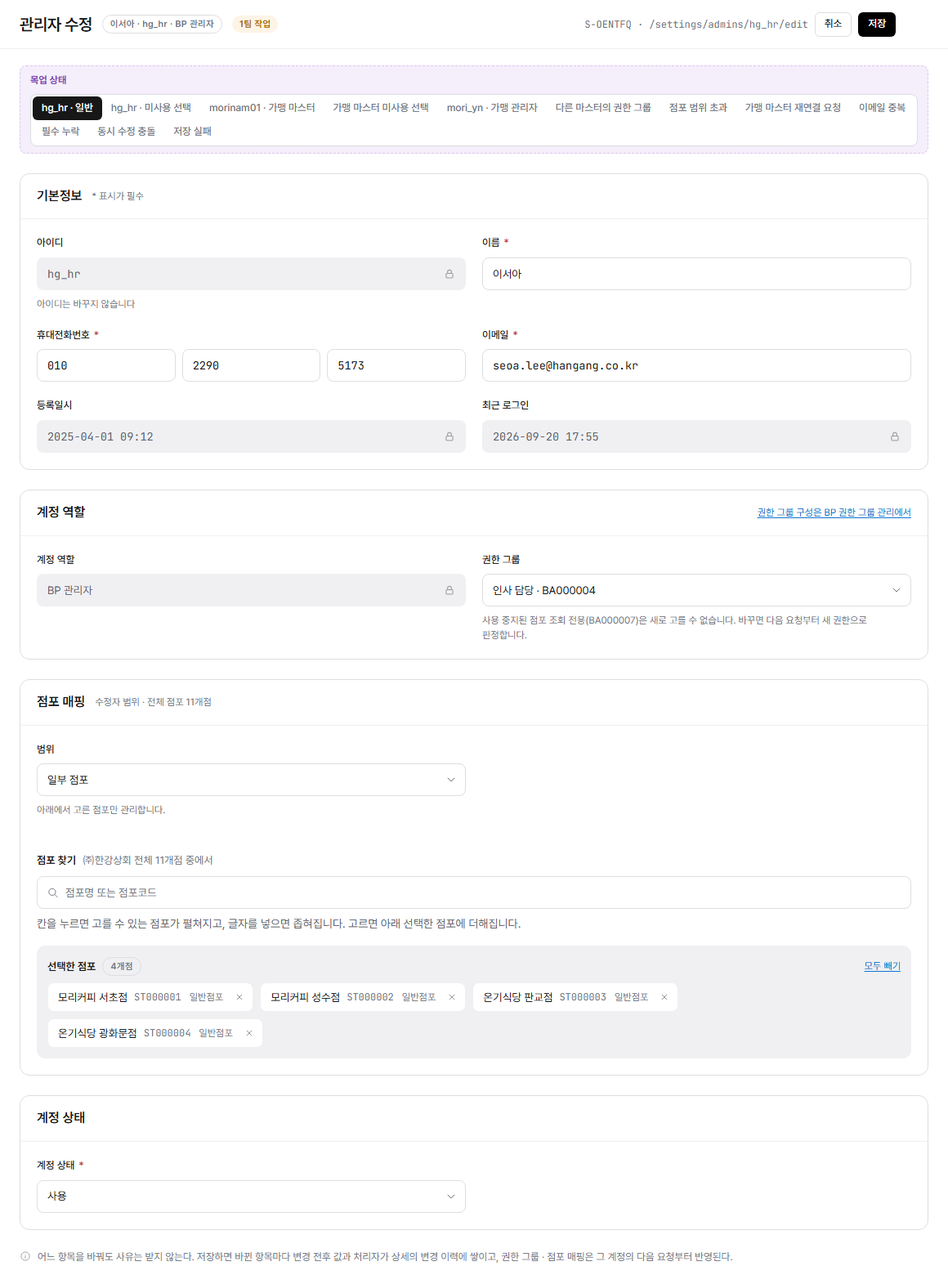
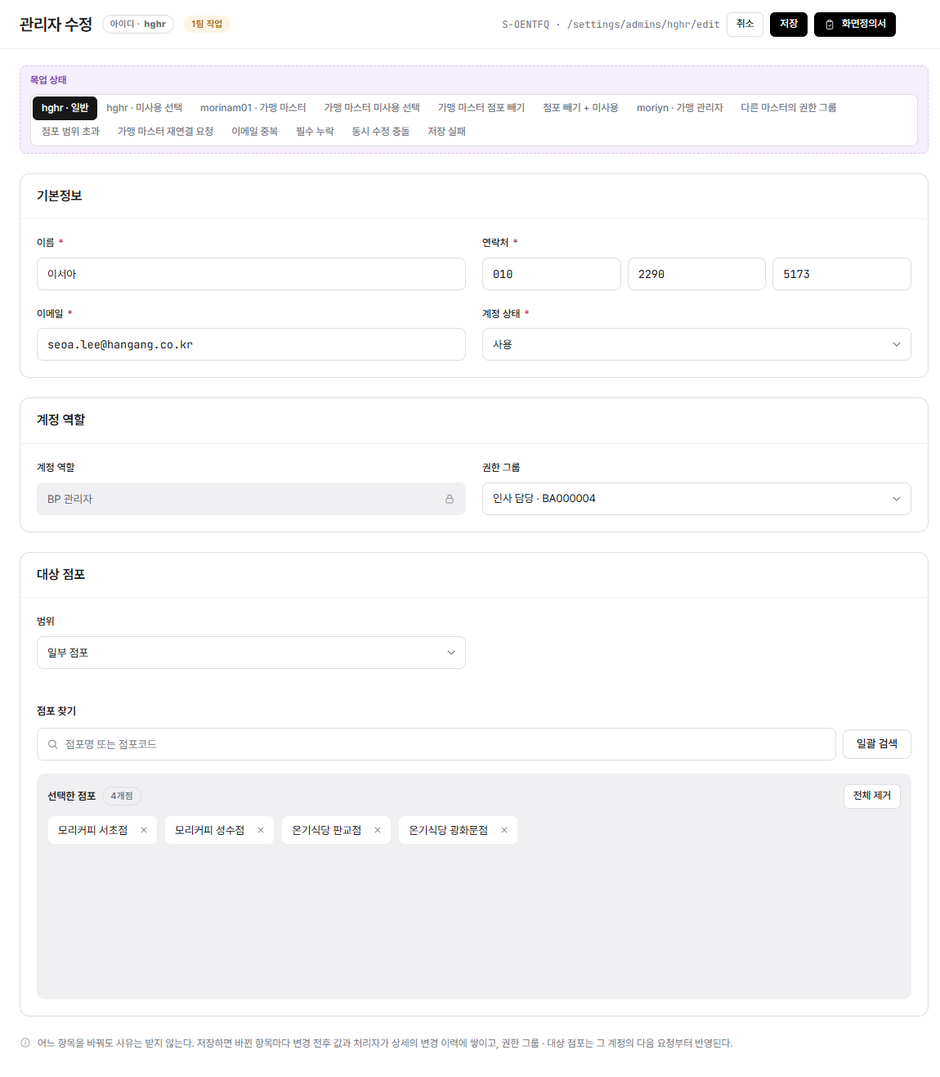
docs: BP 관리자 상세 · 수정 화면정의서 그림을 다시 찍음
오늘 고친 데모로 그림을 다시 찍고 번호를 실제 자리로 옮겼다.

diff --git a/docs/mockup/config/config-admins-edit.screen-def.html b/docs/mockup/config/config-admins-edit.screen-def.html
@@ -10,7 +10,7 @@
 <header>
   <div>
     <h1>BP 관리자 수정 — 화면정의서</h1>
-    <p>config/admins-edit.html?embed=1 렌더링(LNB·상단 GNB 제외, 화면 본문만, BP 마스터·hg_hr·일반 상태 기준) 위에 번호를 붙이고 우측에 설명을 매칭했다. manyfast S-OENTFQ 기준.</p>
+    <p>config/admins-edit.html?embed=1 렌더링(LNB·상단 GNB 제외, 화면 본문만, BP 마스터·hghr·일반 상태 기준) 위에 번호를 붙이고 우측에 설명을 매칭했다. manyfast S-OENTFQ 기준.</p>
     <table class="meta-table">
       <tr><td class="k">화면명</td><td class="v" id="metaName"></td><td class="k">화면경로</td><td class="v" id="metaPath"></td></tr>
     </table>
@@ -49,19 +49,19 @@
   "screenPath": "BP 환경설정 > BP 관리자 관리 > 수정",
   "purpose": "# 화면 목적 및 기능 — BP 관리자·가맹 마스터·가맹 관리자 계정의 기본정보·권한 그룹·점포 매핑·계정 상태를 수정하는 화면. 상세의 수정 버튼으로만 들어오고, 저장/취소/뒤로는 모두 그 계정의 상세로 이동한다",
   "items": [
-    { "x": 1019, "y": 29, "title": "취소", "desc": "정의: 저장하지 않고 이 계정의 상세로 돌아가는 버튼" },
-    { "x": 1073, "y": 29, "title": "저장", "desc": "정의: 바뀐 항목을 저장하고 상세로 이동\n어느 항목을 바꿔도 사유는 받지 않음, 바뀐 항목마다 변경 전후 값과 처리자가 상세의 변경 이력에 쌓임, 권한 그룹·점포 매핑은 그 계정의 다음 요청부터 반영\n이메일 중복이면 저장하지 않고 이메일 칸 아래 \"이미 사용 중인 이메일입니다. 다른 이메일을 입력해 주세요.\", 필수(이름·이메일) 누락이면 \"필수 항목이 비어 저장하지 않았습니다\"\n화면을 연 뒤 다른 사용자가 먼저 바꿨으면 \"다른 사용자가 이 계정을 먼저 바꿨습니다\"로 저장을 막고 최신 정보 다시 불러오기를 안내, 처리 중 오류면 \"저장하지 못했습니다\"(입력값은 화면에 유지)\n가맹 마스터를 미사용으로 저장하면 확인 팝업(연쇄 미사용 대상 안내)을 한 번 더 거침\n가맹 마스터에서 점포를 빼고 저장하면 확인 팝업에 매핑이 풀리는 가맹 관리자를 첫 계정 아이디와 '외 N명'으로 보임, 같은 저장에서 미사용으로도 바꾸면 한 팝업에 둘 다(2026-10-23) — 팝업 제목은 '가맹 마스터를 미사용으로 저장' · '가맹 마스터 점포를 빼고 저장' · '가맹 마스터 점포를 빼고 미사용으로 저장', 항목은 대상 · 빼는 점포 · 매핑 해제(\"뺀 점포의 매핑만 풀립니다.\") · 함께 미사용, 아래에 \"아이디는 첫 계정만 보입니다.\"와 \"가맹 관리자 변경이력에는 저장하는 사람이 처리자로 남고, 변경 후 값에 사유가 붙습니다.\", 확인 버튼은 미사용이 끼면 '미사용으로 저장' 아니면 '저장'(2026-10-29 사용자 결정, 코드대로)\n함께 바뀌는 가맹 관리자가 없으면 팝업 없이 저장" },
-    { "x": 307, "y": 335, "title": "아이디", "desc": "정의: 입력칸이 아니라 제목 옆 꼬리표 '아이디 · xxx'로만 보임, 바꾸지 않음(2026-10-29 사용자 결정, 코드대로)" },
-    { "x": 851, "y": 335, "title": "이름", "desc": "정의: 필수 입력, 비우면 \"이름을 입력해 주세요.\"" },
-    { "x": 130, "y": 447, "title": "연락처", "desc": "정의: 필수 입력, 세 칸으로 나눠 입력" },
-    { "x": 851, "y": 447, "title": "이메일", "desc": "정의: 필수 입력\n다른 계정과 중복이면 \"이미 사용 중인 이메일입니다. 다른 이메일을 입력해 주세요.\", 비우면 \"이메일을 입력해 주세요.\"" },
-    { "x": 307, "y": 721, "title": "계정 역할", "desc": "정의: 읽기 전용 — 이 화면에서 역할은 바꾸지 않음" },
-    { "x": 851, "y": 721, "title": "권한 그룹", "desc": "정의: 이 계정 역할에 맞는 권한 그룹을 드롭다운에 표시(권한 그룹에는 사용 상태가 없음)\n바꾸면 다음 요청부터 새 권한으로 판정\n가맹 마스터는 플랫폼이 정한 고정 권한만 사용, 본인 계정을 여는 경우 이 항목은 읽기 전용이고 \"본인 권한 그룹은 다른 사용자가 바꿔야 합니다\"\n가맹 관리자 계정을 연결 가맹 마스터가 고칠 때는 그 가맹 마스터가 만든 그룹만 나오고(관리계정ID 일치 — 칸 아래 도움말은 두지 않음, 2026-10-29 사용자 결정, 코드대로), 범위 밖 그룹을 강제로 넣으면 \"선택할 수 없는 권한입니다.\"" },
-    { "x": 307, "y": 953, "title": "범위", "desc": "정의: 전체 점포 · 일부 점포 선택(전체 점포를 맡은 수정자만 이 선택지가 있고, 일부 점포만 맡은 수정자는 '일부 점포'로 고정되어 선택이 비활성)\n아래 점포 찾기·선택 영역의 대상 풀이 이 선택에 따라 달라짐" },
-    { "x": 580, "y": 1091, "title": "점포 찾기", "desc": "정의: 점포명 또는 점포코드로 검색해 관리할 점포를 더하는 입력란\n대상 풀은 수정하는 사람 본인의 관리 점포 범위로 줄어든다(예: 일부 점포만 맡은 hg_hr가 고치면 본인 직영 4개점 중에서만)\n가맹 관리자 계정을 가맹 마스터가 고칠 때는 그 가맹 마스터의 점포 안에서만 고름\n새로 매핑할 수 있는 점포는 미운영·운영뿐 — 폐점 점포와(가맹 마스터면) 다른 가맹 마스터가 맡은 점포는 후보에 나오지 않음, 이미 매핑된 폐점 점포는 선택한 점포에 그대로 둠(2026-10-23)" },
-    { "x": 580, "y": 1200, "title": "선택한 점포", "desc": "정의: 고른 점포를 칩으로 쌓아 보여주고 × 로 하나씩 빼거나 '전체 제거'로 모두 뺀다\n수정자 범위 밖에 이미 매핑된 점포가 있으면(예: 일부 점포 담당자가 열었는데 범위 밖 매핑이 남아있는 경우) 이 화면에서 빼거나 바꾸지 못하는 '범위 밖 매핑' 표로 별도 표시하고 그대로 유지\n가맹 마스터 계정에서 점포를 빼면 연결된 가맹 관리자의 그 점포 매핑도 같은 저장에서 풀림 — 빼는 순간 뜨는 경고 띠는 없고 저장할 때 확인 팝업으로만 알림(2026-10-29 사용자 결정, 코드대로), 점포가 하나도 남지 않은 가맹 관리자도 사용 상태 그대로이고 '관리 점포 필수'는 그 계정을 다음에 수정할 때 봄(2026-10-23)" },
-    { "x": 307, "y": 1463, "title": "계정 상태", "desc": "정의: 사용 · 미사용 선택, 필수\n사유는 받지 않고 선행 조건도 보지 않음 — 미사용으로 저장하면 곧바로 로그인·ERP 접근이 막히고 열려 있는 세션은 닫지 않음(계정·점포 매핑·이력은 보존, 다시 사용으로 돌리면 기존 비밀번호로 재로그인)\n가맹 마스터를 미사용으로 저장하면 연결된 가맹 관리자 전부가 미사용, 그 가맹 마스터가 만든 권한 그룹은 그대로 남음(권한 그룹에는 사용 상태가 없음) — 미사용을 고르면 이 칸 아래 안내 띠 \"가맹 마스터를 미사용으로 저장하면 연결된 가맹 관리자 계정도 함께 멈춥니다.\" · \"가맹 관리자 moriyn 외 1명 → 미사용\"(코드대로, 2026-10-29), 저장 전 확인 팝업으로 다시 안내, 가맹 관리자 변경 이력은 처리자가 저장한 사람이고 변경 후 값이 '미사용 (가맹 마스터 미사용)'(2026-10-23)\n본인 계정을 여는 경우(가맹 마스터 본인 포함, 2026-10-23) 이 항목은 읽기 전용(\"본인 계정의 상태는 다른 사용자가 바꿔야 합니다\")\n가맹 관리자 계정은 연결된 가맹 마스터만 상태를 바꿀 수 있음" },
-    { "x": 52, "y": 1536, "title": "하단 안내", "desc": "정의: 어느 항목을 바꿔도 사유는 받지 않으며, 저장하면 바뀐 항목마다 변경 전후 값과 처리자가 상세의 변경 이력에 쌓이고 권한 그룹·점포 매핑은 그 계정의 다음 요청부터 반영된다는 안내" }
+    { "x": 911, "y": 30, "title": "취소", "desc": "정의: 저장하지 않고 이 계정의 상세로 돌아가는 버튼" },
+    { "x": 964, "y": 30, "title": "저장", "desc": "정의: 바뀐 항목을 저장하고 상세로 이동\n어느 항목을 바꿔도 사유는 받지 않음, 바뀐 항목마다 변경 전후 값과 처리자가 상세의 변경 이력에 쌓임, 권한 그룹·점포 매핑은 그 계정의 다음 요청부터 반영\n이메일 중복이면 저장하지 않고 이메일 칸 아래 \"이미 사용 중인 이메일입니다. 다른 이메일을 입력해 주세요.\", 필수(이름·이메일) 누락이면 \"필수 항목이 비어 저장하지 않았습니다\"\n화면을 연 뒤 다른 사용자가 먼저 바꿨으면 \"다른 사용자가 이 계정을 먼저 바꿨습니다\"로 저장을 막고 최신 정보 다시 불러오기를 안내, 처리 중 오류면 \"저장하지 못했습니다\"(입력값은 화면에 유지)\n가맹 마스터를 미사용으로 저장하면 확인 팝업(연쇄 미사용 대상 안내)을 한 번 더 거침\n가맹 마스터에서 점포를 빼고 저장하면 확인 팝업에 매핑이 풀리는 가맹 관리자를 첫 계정 아이디와 '외 N명'으로 보임, 같은 저장에서 미사용으로도 바꾸면 한 팝업에 둘 다(2026-10-23) — 팝업 제목은 '가맹 마스터를 미사용으로 저장' · '가맹 마스터 점포를 빼고 저장' · '가맹 마스터 점포를 빼고 미사용으로 저장', 항목은 대상 · 빼는 점포 · 매핑 해제(\"뺀 점포의 매핑만 풀립니다.\") · 함께 미사용, 아래에 \"아이디는 첫 계정만 보입니다.\"와 \"가맹 관리자 변경이력에는 저장하는 사람이 처리자로 남고, 변경 후 값에 사유가 붙습니다.\", 확인 버튼은 미사용이 끼면 '미사용으로 저장' 아니면 '저장'(2026-10-29 사용자 결정, 코드대로)\n함께 바뀌는 가맹 관리자가 없으면 팝업 없이 저장" },
+    { "x": 168, "y": 29, "title": "아이디", "desc": "정의: 입력칸이 아니라 제목 옆 꼬리표 '아이디 · xxx'로만 보임, 바꾸지 않음(2026-10-29 사용자 결정, 코드대로)" },
+    { "x": 307, "y": 306, "title": "이름", "desc": "정의: 필수 입력, 비우면 \"이름을 입력해 주세요.\"" },
+    { "x": 851, "y": 306, "title": "연락처", "desc": "정의: 필수 입력, 세 칸으로 나눠 입력" },
+    { "x": 307, "y": 392, "title": "이메일", "desc": "정의: 필수 입력\n다른 계정과 중복이면 \"이미 사용 중인 이메일입니다. 다른 이메일을 입력해 주세요.\", 비우면 \"이메일을 입력해 주세요.\"" },
+    { "x": 307, "y": 581, "title": "계정 역할", "desc": "정의: 읽기 전용 — 이 화면에서 역할은 바꾸지 않음" },
+    { "x": 851, "y": 581, "title": "권한 그룹", "desc": "정의: 이 계정 역할에 맞는 권한 그룹을 드롭다운에 표시(권한 그룹에는 사용 상태가 없음)\n바꾸면 다음 요청부터 새 권한으로 판정\n가맹 마스터는 플랫폼이 정한 고정 권한만 사용, 본인 계정을 여는 경우 이 항목은 읽기 전용이고 \"본인 권한 그룹은 다른 사용자가 바꿔야 합니다\"\n가맹 관리자 계정을 연결 가맹 마스터가 고칠 때는 그 가맹 마스터가 만든 그룹만 나오고(관리계정ID 일치 — 칸 아래 도움말은 두지 않음, 2026-10-29 사용자 결정, 코드대로), 범위 밖 그룹을 강제로 넣으면 \"선택할 수 없는 권한입니다.\"" },
+    { "x": 307, "y": 769, "title": "범위", "desc": "정의: 전체 점포 · 일부 점포 선택(전체 점포를 맡은 수정자만 이 선택지가 있고, 일부 점포만 맡은 수정자는 '일부 점포'로 고정되어 선택이 비활성)\n아래 점포 찾기·선택 영역의 대상 풀이 이 선택에 따라 달라짐" },
+    { "x": 140, "y": 879, "title": "점포 찾기", "desc": "정의: 점포명 또는 점포코드로 검색해 관리할 점포를 더하는 입력란\n대상 풀은 수정하는 사람 본인의 관리 점포 범위로 줄어든다(예: 일부 점포만 맡은 hghr가 고치면 본인 직영 4개점 중에서만)\n가맹 관리자 계정을 가맹 마스터가 고칠 때는 그 가맹 마스터의 점포 안에서만 고름\n새로 매핑할 수 있는 점포는 미운영·운영뿐 — 폐점 점포와(가맹 마스터면) 다른 가맹 마스터가 맡은 점포는 후보에 나오지 않음, 이미 매핑된 폐점 점포는 선택한 점포에 그대로 둠(2026-10-23)" },
+    { "x": 190, "y": 973, "title": "선택한 점포", "desc": "정의: 고른 점포를 칩으로 쌓아 보여주고 × 로 하나씩 빼거나 '전체 제거'로 모두 뺀다\n수정자 범위 밖에 이미 매핑된 점포가 있으면(예: 일부 점포 담당자가 열었는데 범위 밖 매핑이 남아있는 경우) 이 화면에서 빼거나 바꾸지 못하는 '범위 밖 매핑' 표로 별도 표시하고 그대로 유지\n가맹 마스터 계정에서 점포를 빼면 연결된 가맹 관리자의 그 점포 매핑도 같은 저장에서 풀림 — 빼는 순간 뜨는 경고 띠는 없고 저장할 때 확인 팝업으로만 알림(2026-10-29 사용자 결정, 코드대로), 점포가 하나도 남지 않은 가맹 관리자도 사용 상태 그대로이고 '관리 점포 필수'는 그 계정을 다음에 수정할 때 봄(2026-10-23)" },
+    { "x": 851, "y": 392, "title": "계정 상태", "desc": "정의: 사용 · 미사용 선택, 필수\n사유는 받지 않고 선행 조건도 보지 않음 — 미사용으로 저장하면 곧바로 로그인·ERP 접근이 막히고 열려 있는 세션은 닫지 않음(계정·점포 매핑·이력은 보존, 다시 사용으로 돌리면 기존 비밀번호로 재로그인)\n가맹 마스터를 미사용으로 저장하면 연결된 가맹 관리자 전부가 미사용, 그 가맹 마스터가 만든 권한 그룹은 그대로 남음(권한 그룹에는 사용 상태가 없음) — 미사용을 고르면 이 칸 아래 안내 띠 \"가맹 마스터를 미사용으로 저장하면 연결된 가맹 관리자 계정도 함께 멈춥니다.\" · \"가맹 관리자 moriyn 외 1명 → 미사용\"(코드대로, 2026-10-29), 저장 전 확인 팝업으로 다시 안내, 가맹 관리자 변경 이력은 처리자가 저장한 사람이고 변경 후 값이 '미사용 (가맹 마스터 미사용)'(2026-10-23)\n본인 계정을 여는 경우(가맹 마스터 본인 포함, 2026-10-23) 이 항목은 읽기 전용(\"본인 계정의 상태는 다른 사용자가 바꿔야 합니다\")\n가맹 관리자 계정은 연결된 가맹 마스터만 상태를 바꿀 수 있음" },
+    { "x": 40, "y": 1275, "title": "하단 안내", "desc": "정의: 어느 항목을 바꿔도 사유는 받지 않으며, 저장하면 바뀐 항목마다 변경 전후 값과 처리자가 상세의 변경 이력에 쌓이고 권한 그룹·점포 매핑은 그 계정의 다음 요청부터 반영된다는 안내" }
   ]
 }
 </script>

diff --git a/docs/mockup/config/config-admins-detail.screen-def.html b/docs/mockup/config/config-admins-detail.screen-def.html
@@ -10,7 +10,7 @@
 <header>
   <div>
     <h1>BP 관리자 상세 — 화면정의서</h1>
-    <p>config/admins-detail.html?embed=1 렌더링(LNB·상단 GNB 제외, 화면 본문만, BP 마스터·hg_hr 계정 기준) 위에 번호를 붙이고 우측에 설명을 매칭했다. manyfast S-EBIPGZ · 비밀번호 초기화 S-TKSRJX 기준.</p>
+    <p>config/admins-detail.html?embed=1 렌더링(LNB·상단 GNB 제외, 화면 본문만, BP 마스터·hghr 계정 기준) 위에 번호를 붙이고 우측에 설명을 매칭했다. manyfast S-EBIPGZ · 비밀번호 초기화 S-TKSRJX 기준.</p>
     <table class="meta-table">
       <tr><td class="k">화면명</td><td class="v" id="metaName"></td><td class="k">화면경로</td><td class="v" id="metaPath"></td></tr>
     </table>
@@ -49,19 +49,19 @@
   "screenPath": "BP 환경설정 > BP 관리자 관리 > 상세",
   "purpose": "# 화면 목적 및 기능 — BP 관리자·가맹 마스터·가맹 관리자 계정의 이름·역할·권한명·계정 상태와 기본정보·대상점포를 읽기 전용으로 모아 보여주고, 수정·비밀번호 초기화·변경이력 팝업으로 이어지는 상세 조회 화면",
   "items": [
-    { "x": 108, "y": 29, "title": "이름 · 역할 | 권한명 | 상태", "desc": "정의: 계정 이름 아랫줄에 「역할 값 | 권한명 값 | 상태 배지」를 한 줄로 표시 — 역할은 BP 관리자 · 가맹 마스터 · 가맹 관리자, 상태는 라벨 없이 사용 · 미사용 배지만\n권한명은 이름만 보이고 링크 · 보충 설명은 없음, 미사용으로 바뀐 일시도 보이지 않음\n미사용 계정은 안내 띠 없이 미사용 배지만(2026-10-29 사용자 결정, 코드대로)" },
-    { "x": 1073, "y": 29, "title": "수정", "desc": "정의: 이 계정의 수정 화면으로 이동\n메뉴 수정 권한이 있고 관리 범위 안인 계정에만 보임(BP 관리자·가맹 마스터=BP 마스터/BP 관리자/플랫폼 사용자가, 가맹 관리자=연결된 가맹 마스터만)\n가맹 마스터 본인 계정은 수정으로 가되 기본정보(이름·연락처·이메일)만 고침, 가맹 관리자 본인 계정은 수정 버튼 없음(2026-10-23)" },
-    { "x": 1140, "y": 29, "title": "변경이력", "desc": "정의: 변경이력 팝업을 연다 — 상세를 볼 수 있으면 늘 보임, 열 때마다 첫 쪽을 새로 받음\n최신순 한 쪽 10건, 칸은 변경일시 · 변경자 · 항목 · 변경 전 · 변경 후, 변경자는 아이디가 아니라 이름(없으면 「시스템」), 비어 있는 값은 빈 칸, 사유는 받지 않음\n비밀번호 줄: 관리자가 초기화하면 항목 「비밀번호」 · 변경 전 빈칸 · 변경 후 「초기화」, 본인이 초기화 비밀번호로 로그인해 바꾸면 「비밀번호」 · 「강제 변경」 — 메일 발송 결과와 비밀번호 값은 남기지 않음(2026-10-29 사용자 결정, 코드대로)\n가맹 마스터 미사용·점포 빼기로 연쇄해 바뀐 가맹 관리자 행은 처리자가 그 가맹 마스터를 저장한 사람(시스템 아님)이고 변경 후 값에 사유를 붙임 — '미사용 (가맹 마스터 미사용)', '… (가맹 마스터 점포 제외)'(2026-10-23)" },
-    { "x": 188, "y": 298, "title": "아이디", "desc": "정의: 읽기 전용" },
-    { "x": 188, "y": 326, "title": "이름", "desc": "정의: 읽기 전용" },
-    { "x": 219, "y": 354, "title": "연락처", "desc": "정의: 읽기 전용" },
-    { "x": 256, "y": 383, "title": "이메일", "desc": "정의: 읽기 전용" },
-    { "x": 220, "y": 411, "title": "비밀번호 · 초기화", "desc": "정의: 초기화할 수 있는 계정에만 [초기화] 버튼, 그 밖은 「-」 — 미사용 계정(api 는 막지 않지만 화면에서 숨김) · 본인 계정(흐린 버튼 · 툴팁 없이 「-」, 비밀번호는 내 정보에서 바꿈) · 초기화 권한이 없는 계정\n초기화 권한: 메뉴 수정 권한 + 관리 범위 안, 가맹 관리자 계정은 연결된 가맹 마스터만\n누르면 확인창 「비밀번호를 초기화하시겠습니까?」 — 대상 아이디 · 이름 · 이메일과 안내 「비밀번호 초기화 시 새로운 비밀번호가 등록된 이메일로 발송됩니다. 새 비밀번호는 1시간 동안 유효하며, 로그인 시 변경해야 합니다. 기존 비밀번호는 즉시 사용할 수 없게 됩니다.」, [취소] [초기화]\n성공하면 토스트 「초기화되었습니다.」와 상세 위 띠 「초기화 비밀번호를 발송했습니다. 비밀번호는 1시간 동안 유효합니다.」, 메일을 못 보내면 빨간 띠 「초기화 비밀번호가 발송되지 않았습니다. 비밀번호 [초기화] 버튼을 눌러 다시 발송해 주세요.」" },
-    { "x": 231, "y": 439, "title": "최근 로그인", "desc": "정의: 읽기 전용, 로그인 기록이 없으면 \"-\"" },
-    { "x": 227, "y": 467, "title": "등록", "desc": "정의: 등록 일시 · 처리자명, 읽기 전용" },
-    { "x": 227, "y": 495, "title": "최종수정", "desc": "정의: 최종 수정 일시 · 처리자명, 읽기 전용 — 수정한 적이 없으면 「-」" },
-    { "x": 260, "y": 523, "title": "연결 가맹마스터", "desc": "정의: 가맹 관리자 계정만 기본정보 표 맨 끝에 보이는 읽기 전용 줄, 등록 때 정해진 연결 가맹 마스터의 「아이디 · 이름」 · 누가 열든 보임, 다른 역할 계정에는 줄이 없음(이 스크린샷의 BP 관리자 계정에는 없음, 2026-10-23)" },
-    { "x": 719, "y": 397, "title": "대상점포", "desc": "정의: 이 계정이 맡은 점포 목록(점포명 · 점포코드 · 점포 상태)과 제목 옆 「일부 점포 · N개점」\n전체 점포를 맡은 계정은 제목 옆 「전체 점포 · 지금 N개점」과 표 대신 안내 두 줄 「소속BP의 모든 점포를 관리합니다. / 신규 등록된 점포도 관리 대상에 자동으로 포함됩니다.」" }
+    { "x": 90, "y": 225, "title": "이름 · 역할 | 권한명 | 상태", "desc": "정의: 계정 이름 아랫줄에 「역할 값 | 권한명 값 | 상태 배지」를 한 줄로 표시 — 역할은 BP 관리자 · 가맹 마스터 · 가맹 관리자, 상태는 라벨 없이 사용 · 미사용 배지만\n권한명은 이름만 보이고 링크 · 보충 설명은 없음, 미사용으로 바뀐 일시도 보이지 않음\n미사용 계정은 안내 띠 없이 미사용 배지만(2026-10-29 사용자 결정, 코드대로)" },
+    { "x": 890, "y": 30, "title": "수정", "desc": "정의: 이 계정의 수정 화면으로 이동\n메뉴 수정 권한이 있고 관리 범위 안인 계정에만 보임(BP 관리자·가맹 마스터=BP 마스터/BP 관리자/플랫폼 사용자가, 가맹 관리자=연결된 가맹 마스터만)\n가맹 마스터 본인 계정은 수정으로 가되 기본정보(이름·연락처·이메일)만 고침, 가맹 관리자 본인 계정은 수정 버튼 없음(2026-10-23)" },
+    { "x": 954, "y": 30, "title": "변경이력", "desc": "정의: 변경이력 팝업을 연다 — 상세를 볼 수 있으면 늘 보임, 열 때마다 첫 쪽을 새로 받음\n최신순 한 쪽 10건, 칸은 변경일시 · 변경자 · 항목 · 변경 전 · 변경 후, 변경자는 아이디가 아니라 이름(없으면 「시스템」), 비어 있는 값은 빈 칸, 사유는 받지 않음\n비밀번호 줄: 관리자가 초기화하면 항목 「비밀번호」 · 변경 전 빈칸 · 변경 후 「초기화」, 본인이 초기화 비밀번호로 로그인해 바꾸면 「비밀번호」 · 「강제 변경」 — 메일 발송 결과와 비밀번호 값은 남기지 않음(2026-10-29 사용자 결정, 코드대로)\n가맹 마스터 미사용·점포 빼기로 연쇄해 바뀐 가맹 관리자 행은 처리자가 그 가맹 마스터를 저장한 사람(시스템 아님)이고 변경 후 값에 사유를 붙임 — '미사용 (가맹 마스터 미사용)', '… (가맹 마스터 점포 제외)'(2026-10-23)" },
+    { "x": 145, "y": 376, "title": "아이디", "desc": "정의: 읽기 전용" },
+    { "x": 145, "y": 405, "title": "이름", "desc": "정의: 읽기 전용" },
+    { "x": 145, "y": 433, "title": "연락처", "desc": "정의: 읽기 전용" },
+    { "x": 145, "y": 462, "title": "이메일", "desc": "정의: 읽기 전용" },
+    { "x": 145, "y": 495, "title": "비밀번호 · 초기화", "desc": "정의: 초기화할 수 있는 계정에만 [초기화] 버튼, 그 밖은 「-」 — 미사용 계정(api 는 막지 않지만 화면에서 숨김) · 본인 계정(흐린 버튼 · 툴팁 없이 「-」, 비밀번호는 내 정보에서 바꿈) · 초기화 권한이 없는 계정\n초기화 권한: 메뉴 수정 권한 + 관리 범위 안, 가맹 관리자 계정은 연결된 가맹 마스터만\n누르면 확인창 「비밀번호를 초기화하시겠습니까?」 — 대상 아이디 · 이름 · 이메일과 안내 「비밀번호 초기화 시 새로운 비밀번호가 등록된 이메일로 발송됩니다. 새 비밀번호는 1시간 동안 유효하며, 로그인 시 변경해야 합니다. 기존 비밀번호는 즉시 사용할 수 없게 됩니다.」, [취소] [초기화]\n성공하면 토스트 「초기화되었습니다.」와 상세 위 띠 「초기화 비밀번호를 발송했습니다. 비밀번호는 1시간 동안 유효합니다.」, 메일을 못 보내면 빨간 띠 「초기화 비밀번호가 발송되지 않았습니다. 비밀번호 [초기화] 버튼을 눌러 다시 발송해 주세요.」" },
+    { "x": 145, "y": 529, "title": "최근 로그인", "desc": "정의: 읽기 전용, 로그인 기록이 없으면 \"-\"" },
+    { "x": 145, "y": 558, "title": "등록", "desc": "정의: 등록 일시 · 처리자명, 읽기 전용" },
+    { "x": 145, "y": 586, "title": "최종수정", "desc": "정의: 최종 수정 일시 · 처리자명, 읽기 전용 — 수정한 적이 없으면 「-」" },
+    { "x": 145, "y": 614, "title": "연결 가맹마스터", "desc": "정의: 가맹 관리자 계정만 기본정보 표 맨 끝에 보이는 읽기 전용 줄, 등록 때 정해진 연결 가맹 마스터의 「아이디 · 이름」 · 누가 열든 보임, 다른 역할 계정에는 줄이 없음(이 스크린샷의 BP 관리자 계정에는 없음, 2026-10-23)" },
+    { "x": 690, "y": 318, "title": "대상점포", "desc": "정의: 이 계정이 맡은 점포 목록(점포명 · 점포코드 · 점포 상태)과 제목 옆 「일부 점포 · N개점」\n전체 점포를 맡은 계정은 제목 옆 「전체 점포 · 지금 N개점」과 표 대신 안내 두 줄 「소속BP의 모든 점포를 관리합니다. / 신규 등록된 점포도 관리 대상에 자동으로 포함됩니다.」" }
   ]
 }
 </script>
